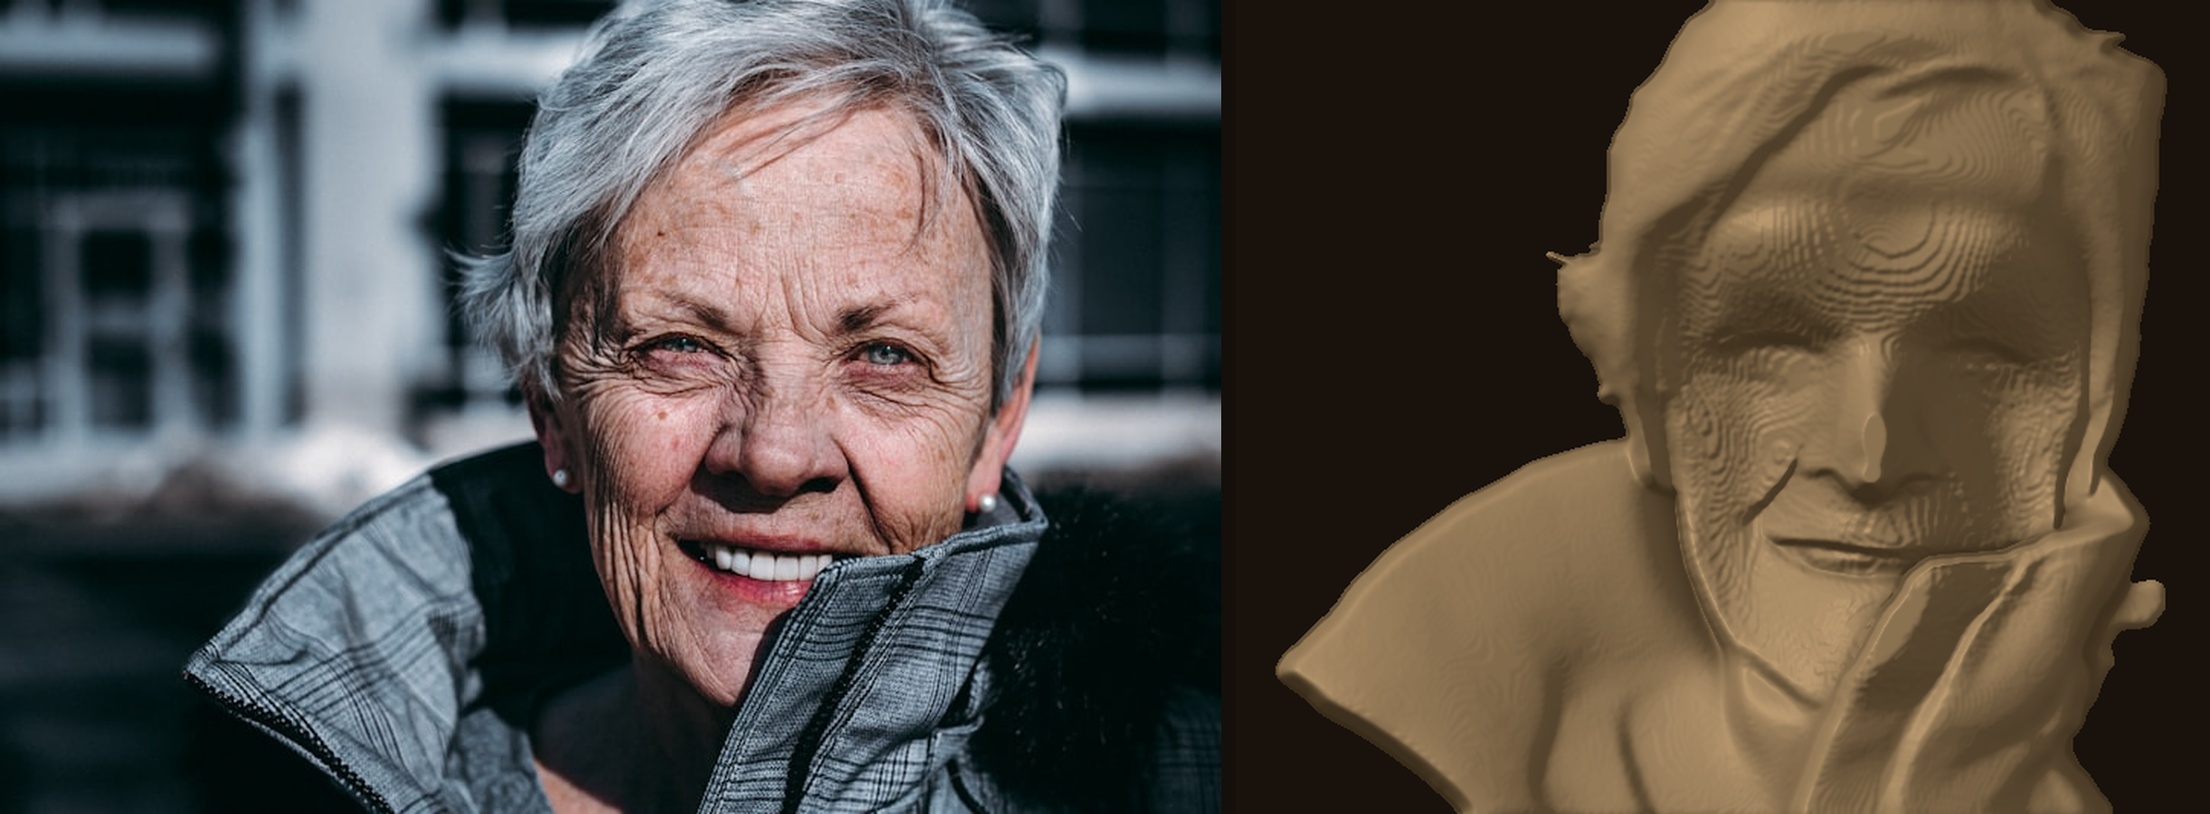
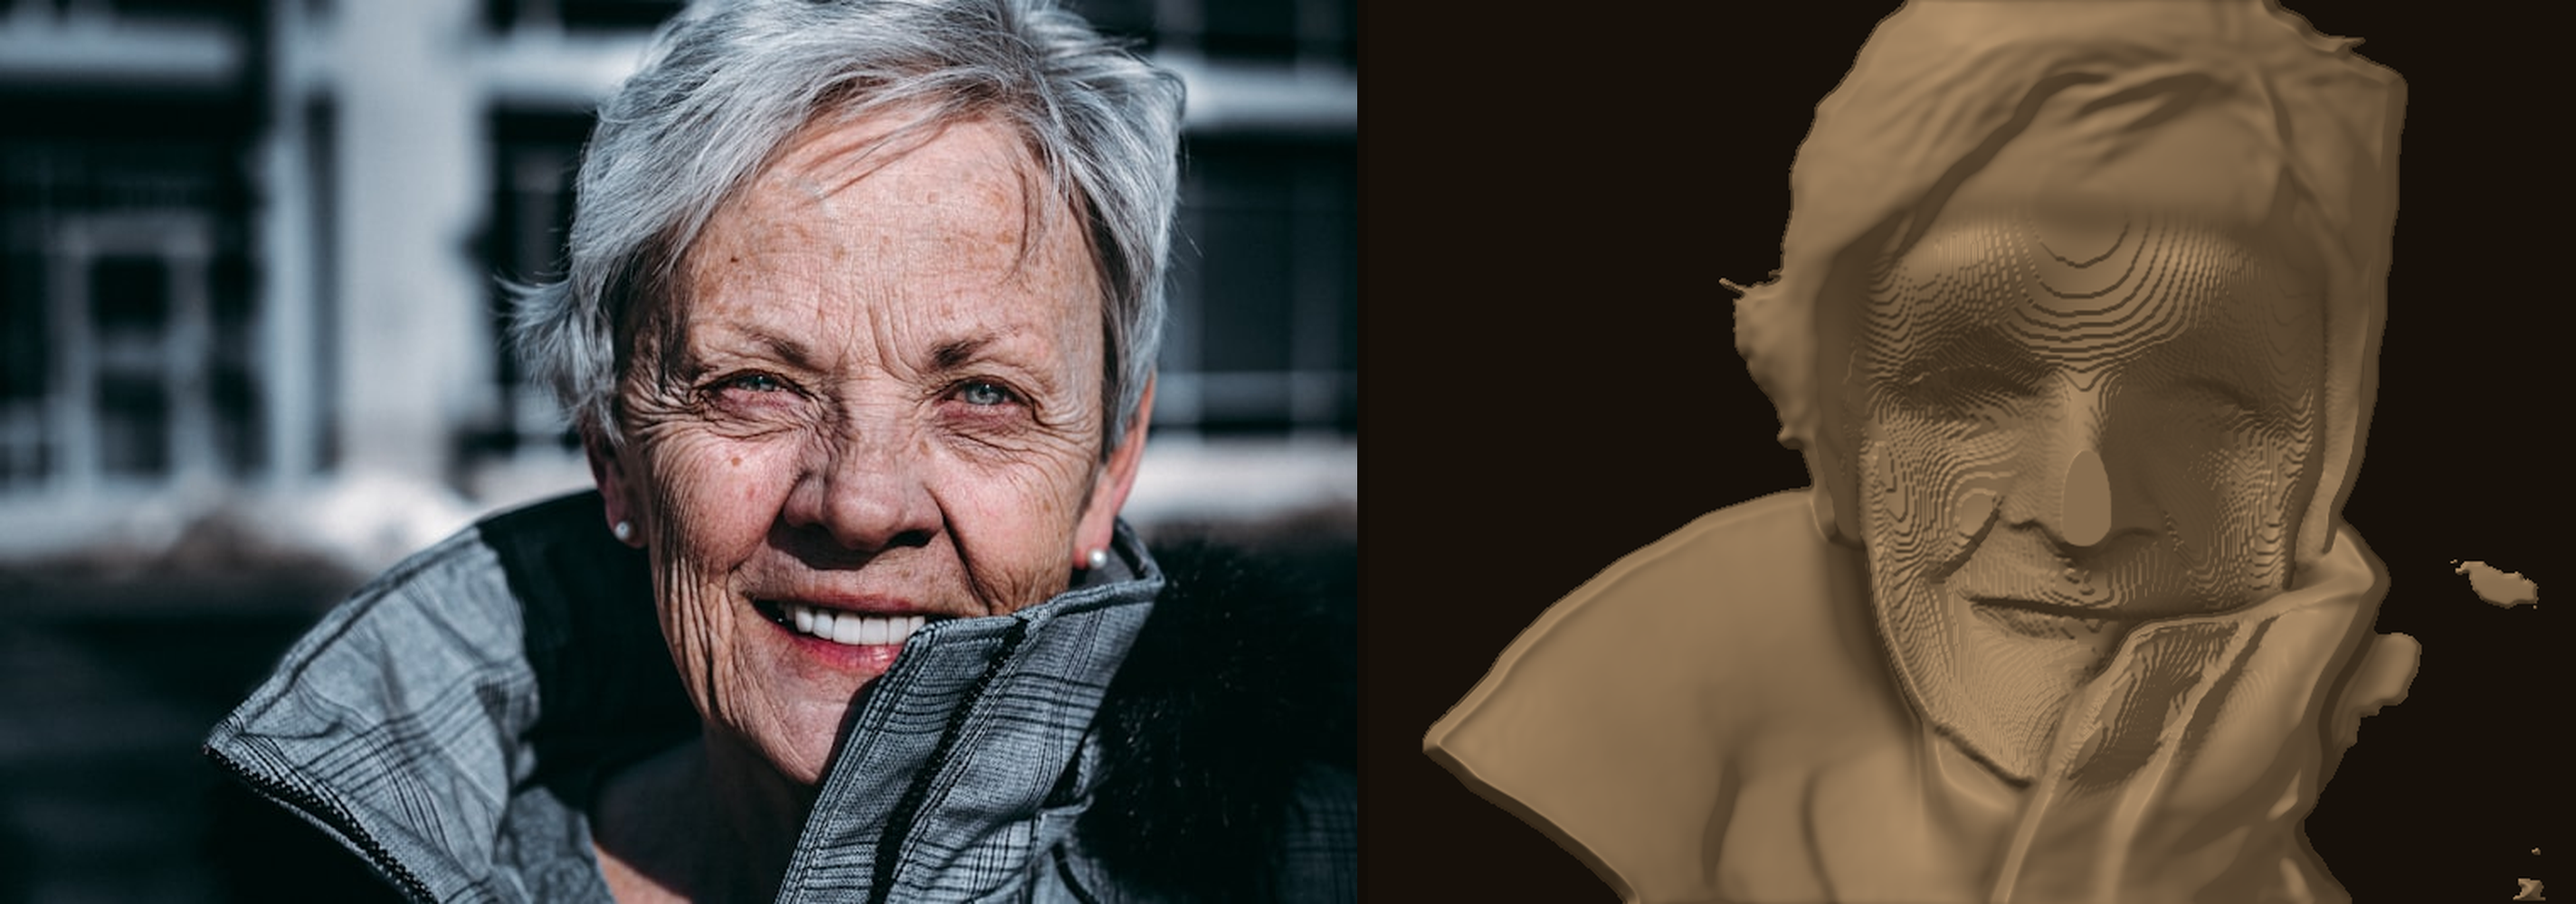
Higher quality: preserve AI detail, fix banding, increase resolution
- Decompose AI depth into low-freq shape + high-freq detail, then
  combine sculpture's structure with AI's fine texture (wrinkles,
  hair, skin). Previous approach overwrote AI detail with smooth
  gaussian blobs.
- Render from float32 depth instead of 8-bit PNG to eliminate
  contour banding artifacts.
- Increase processing resolution: 1024px preview (was 768), 518px
  depth estimation (was 384).
- Higher mesh resolution: 400 grid (was 256), producing 200K+
  triangle STLs.
- Improved 3-point lighting render with ambient occlusion.

https://claude.ai/code/session_01LWcZc1CYP2PqS1dNMpUiK8

diff --git a/backend/tests/render_quick.py b/backend/tests/render_quick.py
@@ -1,5 +1,5 @@
 #!/usr/bin/env python3
-"""Quick render all 4 portraits with shaded 3D preview."""
+"""Render all portraits with high quality 3D preview — no 8-bit banding."""
 
 import sys, os, time
 import numpy as np
@@ -14,76 +14,103 @@ from app.pipeline.refiner import RefinementParams
 from app.pipeline.relief import ReliefParams, ReliefStyle
 
 
-def render_shaded(depth_path, output_path, z_scale=4.0):
-    """Render depth map with dramatic directional lighting to show relief."""
-    img = Image.open(depth_path).convert("L")
-    depth = np.array(img, dtype=np.float64) / 255.0
+def render_from_float32(depth_f32, z_exag=0.40):
+    """
+    Render 3D relief directly from float32 depth — eliminates banding.
+    Returns PIL Image.
+    """
+    depth = depth_f32.astype(np.float64)
+    h, w = depth.shape
 
-    # Light smooth for cleaner normals
-    depth_smooth = ndimage.gaussian_filter(depth, sigma=0.8)
+    # Smooth very slightly for clean normals
+    depth_smooth = ndimage.gaussian_filter(depth, sigma=0.6)
 
-    dy, dx = np.gradient(depth_smooth)
-    dx *= z_scale
-    dy *= z_scale
+    Z = depth_smooth * w * z_exag
 
-    # Light from upper-left at a steep angle to cast shadows
-    az, alt = np.radians(230), np.radians(30)
-    lx = np.cos(alt) * np.cos(az)
-    ly = np.cos(alt) * np.sin(az)
-    lz = np.sin(alt)
+    # Sobel for smooth surface normals
+    dx = ndimage.sobel(Z, axis=1) / 8.0
+    dy = ndimage.sobel(Z, axis=0) / 8.0
 
     norm = np.sqrt(dx**2 + dy**2 + 1.0)
-    nx, ny, nz = -dx/norm, -dy/norm, 1.0/norm
-    shading = nx*lx + ny*ly + nz*lz
-    shading = np.clip(shading, 0, 1)
+    nx, ny, nz = -dx / norm, -dy / norm, 1.0 / norm
 
-    # Two-tone lighting: warm key + cool fill
-    key = shading ** 0.9  # Slightly boost mid-tones
+    # === THREE-POINT LIGHTING ===
+    # Key light: upper-left, dramatic angle
+    az1, alt1 = np.radians(225), np.radians(30)
+    kd = np.array([np.cos(alt1)*np.cos(az1), np.cos(alt1)*np.sin(az1), np.sin(alt1)])
+    key = np.clip(nx*kd[0] + ny*kd[1] + nz*kd[2], 0, 1) ** 0.9
 
-    # Fill light from opposite side (softer)
-    az2, alt2 = np.radians(60), np.radians(50)
-    lx2 = np.cos(alt2) * np.cos(az2)
-    ly2 = np.cos(alt2) * np.sin(az2)
-    lz2 = np.sin(alt2)
-    fill = nx*lx2 + ny*ly2 + nz*lz2
-    fill = np.clip(fill, 0, 1) * 0.25
+    # Fill light: right side, softer and higher
+    az2, alt2 = np.radians(340), np.radians(55)
+    fd = np.array([np.cos(alt2)*np.cos(az2), np.cos(alt2)*np.sin(az2), np.sin(alt2)])
+    fill = np.clip(nx*fd[0] + ny*fd[1] + nz*fd[2], 0, 1)
 
-    result = 0.12 + 0.7 * key + fill
+    # Rim/back light: from behind-below for edge definition
+    az3, alt3 = np.radians(30), np.radians(8)
+    rd = np.array([np.cos(alt3)*np.cos(az3), np.cos(alt3)*np.sin(az3), np.sin(alt3)])
+    rim = np.clip(nx*rd[0] + ny*rd[1] + nz*rd[2], 0, 1)
 
     # Specular highlight
-    reflect_z = 2 * nz * (nx*lx + ny*ly + nz*lz) - lz
-    specular = np.clip(reflect_z, 0, 1) ** 32 * 0.2
-    result = np.clip(result + specular, 0, 1)
+    view = np.array([0, 0, 1.0])
+    hv = kd + view
+    hv /= np.linalg.norm(hv)
+    spec = np.clip(nx*hv[0] + ny*hv[1] + nz*hv[2], 0, 1) ** 60 * 0.10
 
-    # Boost contrast
-    result = np.clip((result - 0.3) * 1.4 + 0.3, 0, 1)
+    # Ambient occlusion — darkens crevices (eyes, nostrils, lip line)
+    depth_blur = ndimage.gaussian_filter(depth, sigma=12)
+    ao = np.clip(1.0 - (depth_blur - depth) * 6.0, 0.35, 1.0)
 
-    # Background
-    bg_mask = depth < 0.03
-    result[bg_mask] = 0.04
+    # Combine
+    result = (0.06 + 0.62 * key + 0.16 * fill + 0.08 * rim + spec) * ao
+    result = np.clip(result, 0, 1)
 
-    # Rich wood tone
-    r = (result * 215 + (1-result) * 50).astype(np.uint8)
-    g = (result * 180 + (1-result) * 35).astype(np.uint8)
-    b = (result * 135 + (1-result) * 20).astype(np.uint8)
-    r[bg_mask], g[bg_mask], b[bg_mask] = 30, 22, 14
+    # Background mask
+    bg = depth < 0.025
 
-    Image.fromarray(np.stack([r,g,b], axis=-1)).save(output_path)
+    # Warm walnut wood tones
+    r = np.clip(result * 210 + (1 - result) * 48, 0, 255).astype(np.uint8)
+    g = np.clip(result * 172 + (1 - result) * 36, 0, 255).astype(np.uint8)
+    b = np.clip(result * 128 + (1 - result) * 22, 0, 255).astype(np.uint8)
+    r[bg], g[bg], b[bg] = 22, 16, 10
+
+    return Image.fromarray(np.stack([r, g, b], axis=-1))
 
 
+def make_comparison(src_img, render_img, output_path):
+    """Side-by-side: source left, render right."""
+    target_h = 1000
+
+    src_w = int(src_img.size[0] * target_h / src_img.size[1])
+    src = src_img.resize((src_w, target_h), Image.LANCZOS)
+
+    render_w = int(render_img.size[0] * target_h / render_img.size[1])
+    render = render_img.resize((render_w, target_h), Image.LANCZOS)
+
+    gap = 12
+    total_w = src_w + gap + render_w
+    canvas = Image.new("RGB", (total_w, target_h), (18, 13, 8))
+    canvas.paste(src, (0, 0))
+    canvas.paste(render, (src_w + gap, 0))
+    canvas.save(output_path, quality=95)
+    print(f"  Saved: {output_path} ({total_w}x{target_h})")
+
+
+# ===== MAIN =====
 pipeline = PortraitPipeline()
 img_dir = "/home/user/1/backend/test_images"
 out_dir = "/home/user/1/backend/test_output"
+results_dir = "/home/user/1/results"
+os.makedirs(results_dir, exist_ok=True)
 
 for fname in sorted(os.listdir(img_dir)):
     if not fname.endswith((".jpg", ".png")):
         continue
 
     name = Path(fname).stem
-    print(f"\n{'='*50}")
+    print(f"\n{'=' * 50}")
     print(f"Processing: {name}")
-    path = os.path.join(img_dir, fname)
-    image = Image.open(path).convert("RGB")
+
+    image = Image.open(os.path.join(img_dir, fname)).convert("RGB")
     print(f"  Input: {image.size[0]}x{image.size[1]}")
 
     t0 = time.time()
@@ -91,33 +118,32 @@ for fname in sorted(os.listdir(img_dir)):
         image,
         quality="preview",
         remove_background=True,
-        mesh_resolution=300,
+        mesh_resolution=400,
     )
     elapsed = time.time() - t0
     print(f"  Faces: {len(result.faces_detected)}")
     print(f"  Time: {elapsed:.1f}s")
+    print(f"  Depth shape: {result.refined_depth_map.shape}")
 
-    # Save outputs
-    result.depth_preview().save(os.path.join(out_dir, f"{name}_v3_depth.png"))
-    result.relief_preview().save(os.path.join(out_dir, f"{name}_v3_relief.png"))
-    result.save_stl(os.path.join(out_dir, f"{name}_v3.stl"))
+    # Render directly from float32 depth — no 8-bit banding!
+    render = render_from_float32(result.refined_depth_map, z_exag=0.40)
 
-    # Render shaded
-    render_shaded(
-        os.path.join(out_dir, f"{name}_v3_depth.png"),
-        os.path.join(out_dir, f"{name}_v3_wood.png"),
-        z_scale=12.0,
-    )
-    print(f"  Saved depth, relief, STL, and wood render")
+    # Save comparison
+    comparison_path = os.path.join(results_dir, f"{name}_final.png")
+    make_comparison(image, render, comparison_path)
 
-    # Quick face stats
+    # Also save the STL
+    stl_path = os.path.join(out_dir, f"{name}_v4.stl")
+    result.save_stl(stl_path)
+    stl_size = os.path.getsize(stl_path)
+    print(f"  STL: {stl_size:,} bytes, {len(result.mesh.vectors)} triangles")
+
+    # Face stats
     if result.faces_detected:
-        face = result.faces_detected[0]
         d = result.refined_depth_map
-        fm = face.region_masks
+        fm = result.faces_detected[0].region_masks
         face_med = np.median(d[fm.face_outline > 0.5])
         nose_med = np.median(d[fm.nose > 0.5]) if fm.nose.sum() > 10 else 0
-        print(f"  Face median: {face_med:.3f}")
         print(f"  Nose projection: {nose_med - face_med:.3f} above face")
 
 print("\nDone!")

diff --git a/backend/app/pipeline/refiner.py b/backend/app/pipeline/refiner.py
@@ -79,34 +79,40 @@ class DepthRefiner:
         # Step 1: Create geometric face sculpture from landmarks
         sculpture = self._build_face_sculpture(depth_map, faces, params)
 
-        # Step 2: Blend sculpture with AI depth
-        # The sculpture provides the facial feature structure,
-        # the AI depth provides the overall shape and non-face detail
         face_mask_soft = ndimage.gaussian_filter(face_mask, sigma=10)
         face_mask_soft = np.clip(face_mask_soft, 0, 1)
 
-        blend_strength = 0.7 * params.feature_strength  # How much sculpture vs AI depth
-        refined = (
-            depth_map * (1 - face_mask_soft * blend_strength)
-            + sculpture * face_mask_soft * blend_strength
-        )
+        # Step 2: Decompose AI depth into low-freq shape + high-freq detail
+        # Low-freq = overall face dome shape (from AI)
+        # High-freq = wrinkles, skin texture, hair strands, pores (from AI)
+        ai_low = ndimage.gaussian_filter(depth_map, sigma=6.0)
+        ai_detail = depth_map - ai_low  # This is the precious fine detail
 
-        # Step 3: Add back high-frequency detail from the AI depth
-        detail = depth_map - ndimage.gaussian_filter(depth_map, sigma=2.0)
-        refined = refined + detail * params.detail_level * face_mask_soft
+        # Step 3: Decompose sculpture similarly
+        sculpt_low = ndimage.gaussian_filter(sculpture, sigma=6.0)
 
-        # Step 4: Smooth background
+        # Step 4: Combine: sculpture's low-freq structure + AI's fine detail
+        # The sculpture provides nose ridge, eye sockets, brow ridges
+        # The AI provides wrinkles, texture, hair, likeness
+        blend = params.feature_strength * 0.7
+        combined_low = ai_low * (1 - face_mask_soft * blend) + sculpt_low * face_mask_soft * blend
+
+        # Add back ALL the AI fine detail — this is what gives us texture
+        detail_strength = 0.5 + params.detail_level * 1.5  # 0.5-2.0x
+        refined = combined_low + ai_detail * detail_strength
+
+        # Step 5: Smooth background
         bg_smoothed = ndimage.gaussian_filter(refined, sigma=params.background_smoothing)
         refined = refined * face_mask_soft + bg_smoothed * (1 - face_mask_soft)
 
-        # Step 5: Redistribute face depth for visible relief
+        # Step 6: Redistribute face depth for visible relief
         refined = self._redistribute_face_depth(refined, faces)
 
-        # Step 6: Final cleanup smoothing
+        # Step 7: Very light cleanup — just enough to blend sculpture edges
         if params.smoothing > 0:
-            sigma = 0.5 + params.smoothing * 1.5
+            sigma = 0.3 + params.smoothing * 0.7  # Much lighter than before
             smoothed = ndimage.gaussian_filter(refined, sigma=sigma)
-            refined = refined * (1 - face_mask_soft * 0.3) + smoothed * face_mask_soft * 0.3
+            refined = refined * (1 - face_mask_soft * 0.15) + smoothed * face_mask_soft * 0.15
 
         return self._normalize(refined)
 

diff --git a/backend/app/pipeline/orchestrator.py b/backend/app/pipeline/orchestrator.py
@@ -128,7 +128,7 @@ class PortraitPipeline:
         processed_image, bg_mask = self.preprocessor.process(
             image,
             remove_background=remove_background,
-            max_dimension=768 if quality == "preview" else 1024,
+            max_dimension=1024 if quality == "preview" else 1536,
         )
         timings["preprocessing"] = time.time() - t0
 
@@ -139,7 +139,7 @@ class PortraitPipeline:
 
         # --- Stage 3: Depth Estimation ---
         t0 = time.time()
-        target_size = 384 if quality == "preview" else None
+        target_size = 518 if quality == "preview" else None
         raw_depth = self.depth_estimator.estimate(
             processed_image,
             quality=quality,
